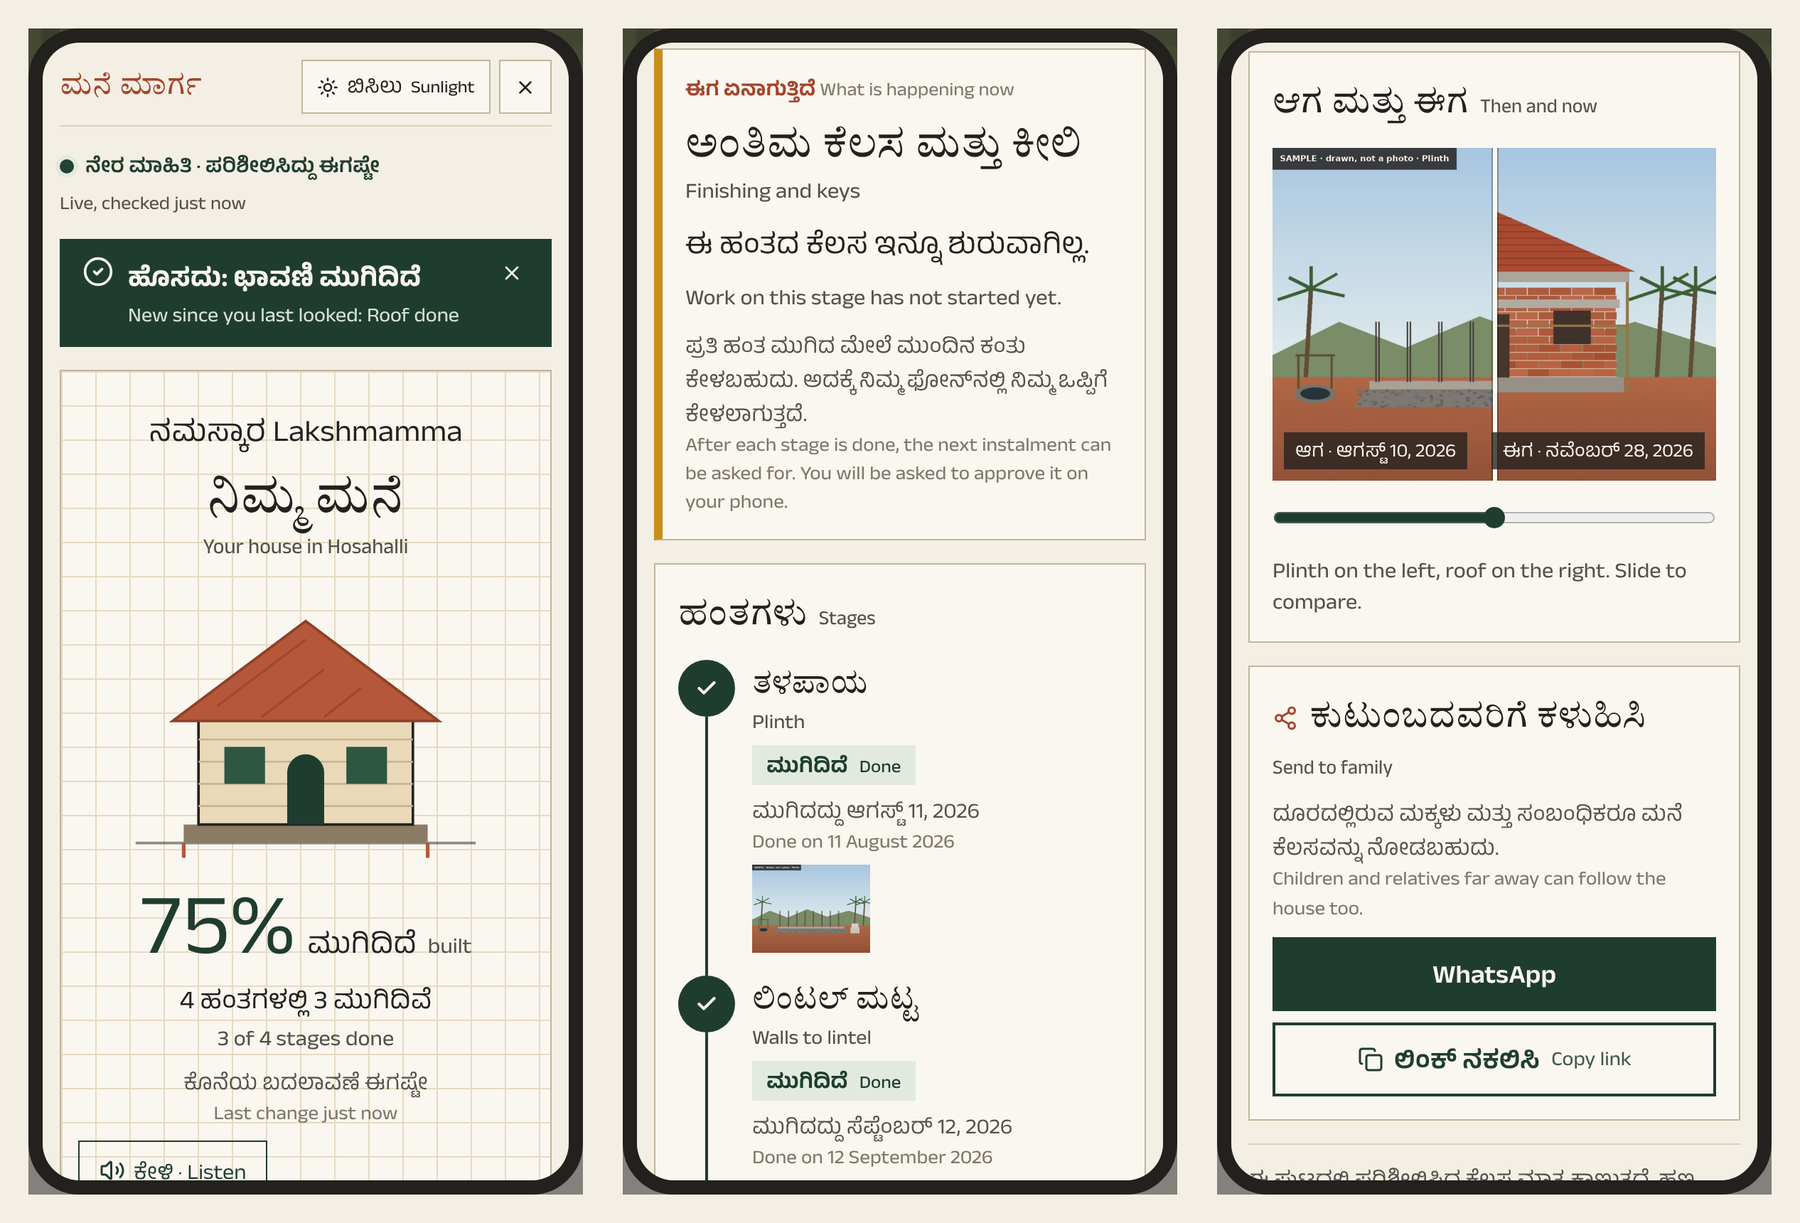
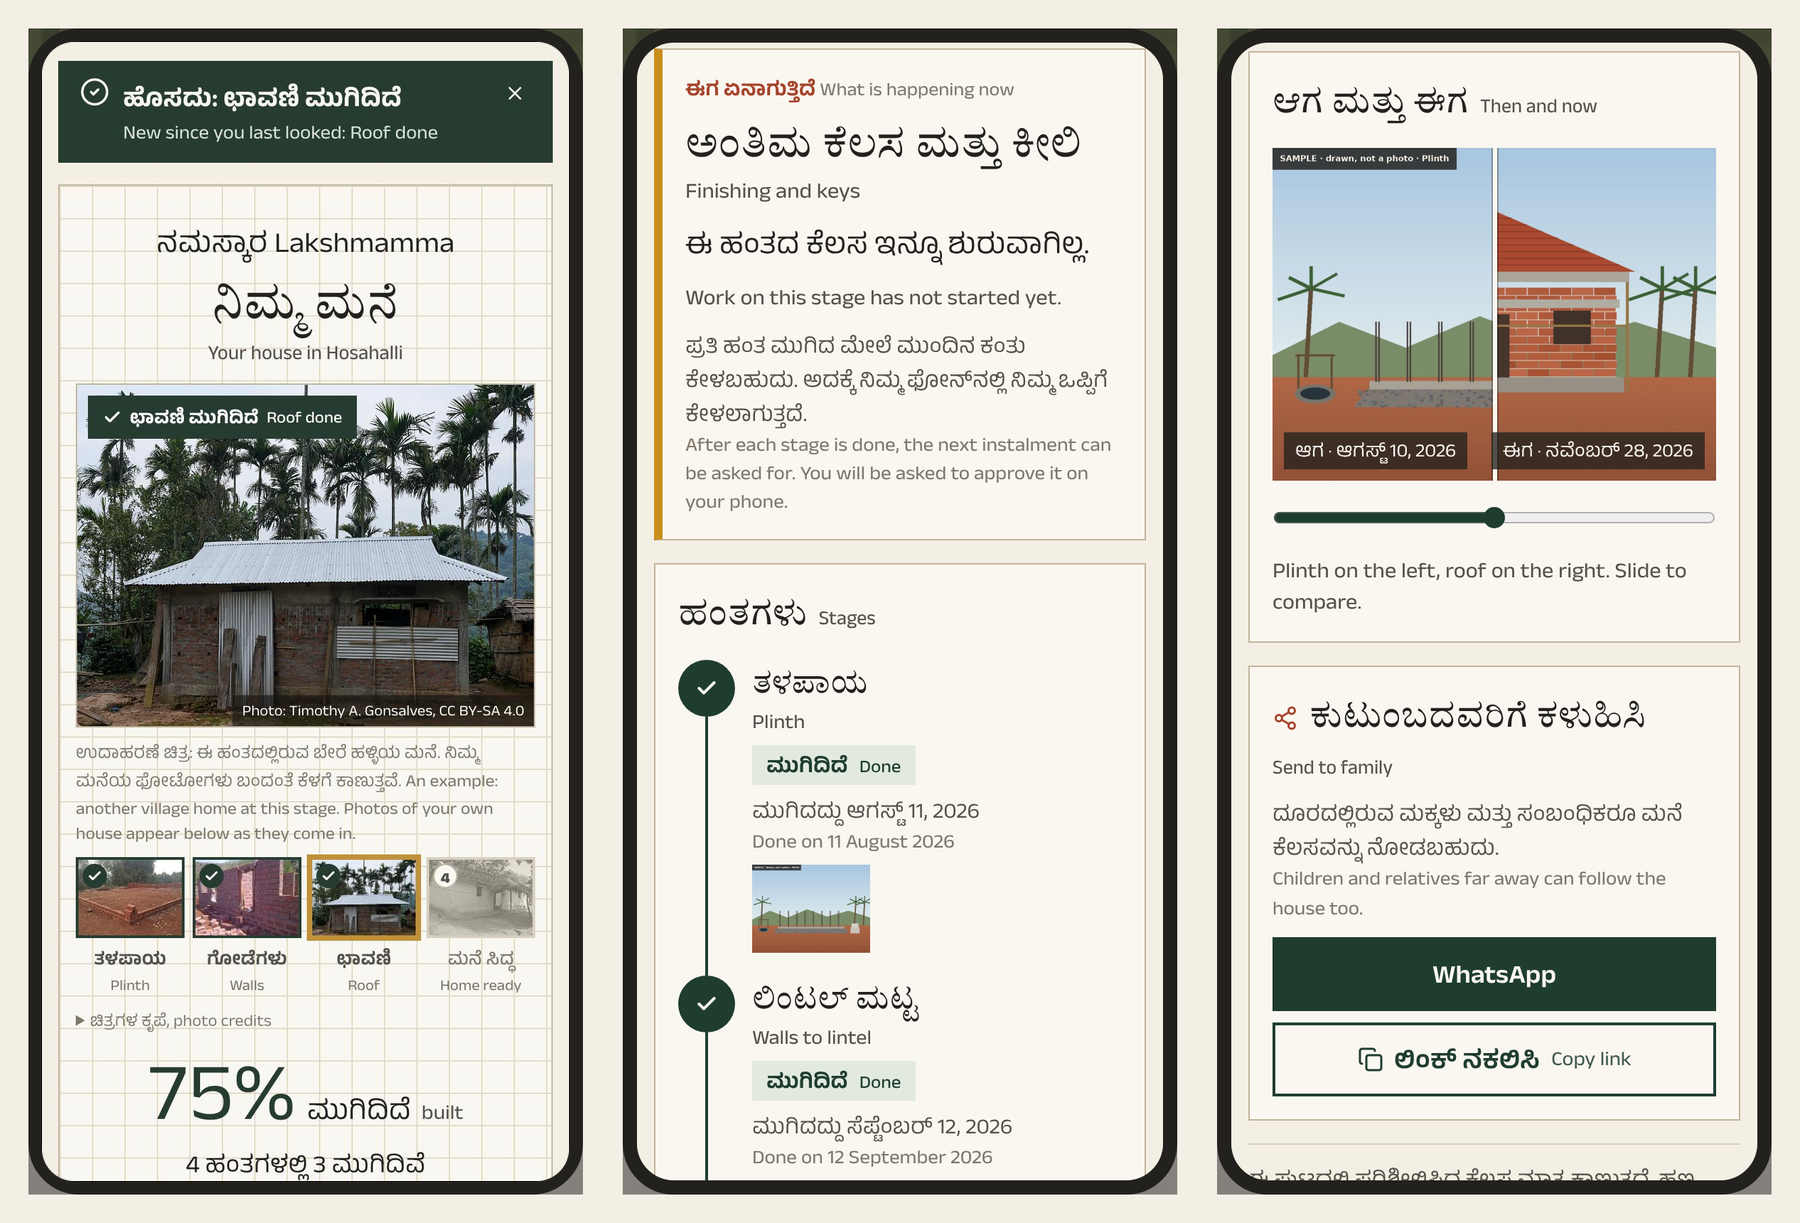
retake the family page screenshot with the stage photos

Changed region(s): [[0.0311, 0.0311, 0.3111, 0.9632]]

diff --git a/README.md b/README.md
@@ -115,7 +115,7 @@ Each working page opens on the one sentence a field officer needs, with the figu
 ### The family watches their house go up
 
 <div align="center">
-<img src="docs/assets/screenshots/family-progress.png" width="640" alt="Three phone screens of the family's progress page in Kannada with English below: a green banner saying the roof is new since the family last looked and the house drawing at 75 percent; what is happening now and the stage timeline with done dates and accepted photos; then and now, a slider between the plinth photo and the roof photo, and buttons to send the page to family on WhatsApp" />
+<img src="docs/assets/screenshots/family-progress.png" width="640" alt="Three phone screens of the family's progress page in Kannada with English below: a green banner saying the roof is new since the family last looked, an example photo of a small brick village house under a new sheet roof marked Roof done, the four stage photos with three done, and 75 percent built; what is happening now and the stage timeline with done dates and accepted photos; then and now, a slider between the plinth photo and the roof photo, and buttons to send the page to family on WhatsApp" />
 <br /><sub>The officer verifies the roof; the next time Lakshmamma opens her page it says so. The link comes from a QR code on the officer's phone, an SMS or WhatsApp. It shows verified work only, never money, documents or her phone number, and the case worker can switch it off.</sub>
 </div>
 
